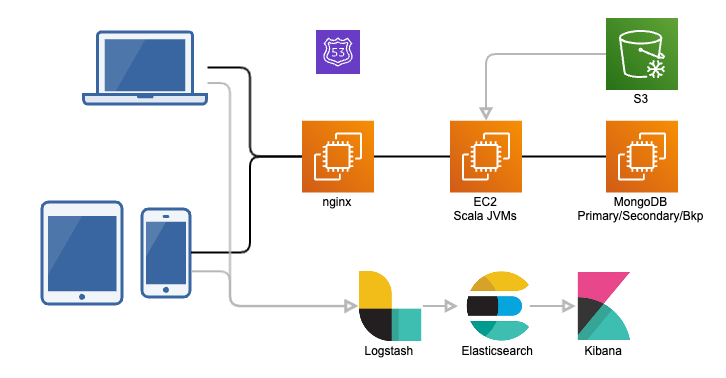
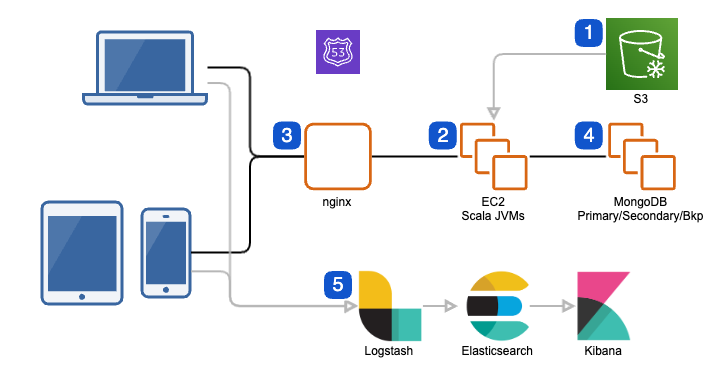
Outline update
Updated format to be the same as AWS Reference Architecture Diagrams

diff --git a/README.md b/README.md
@@ -1,22 +1,15 @@
 # Game Microservice Architecture and Pipeline
-The following architecture and pipelines supported an audience of 200K students playing cross-platform mobile games that reported student concept mastery and behavioral data to their teachers and admins on a responsive site.
+The following architecture and pipelines for cross-platform mobile games consisted of components designed to provide a seamless and secure gaming experience. They supported an audience of 200K students playing cross-platform mobile games that reported student concept mastery and behavioral data to their teachers and admins on a responsive site.
 
 ## Architecture
 
 ![alt text](startup_game_architecture.png "Startup Game Architecture")
 
-*Benefits:*
-1. Using CloudFormation for deployments provided a simple and efficient way to create and manage all of the necessary AWS resources, allowing for quick releases and scaling with demand, ensuring that the gaming experience remained smooth and uninterrupted for all users.
-2. Scala is a powerful programming language that allowed for efficient and scalable data processing, making it an ideal choice for the backend of a gaming application with heavy data reporting needs. Its functional programming features make it easy to write highly modular, reusable, and well-tested code for asynchronous data processing, leading to faster dev times and reduced maintenance/testing costs.
-2. MongoDB is a highly scalable, flexible NoSQL DB, making it an excellent choice for gaming applications that require fast and reliable data access. Its ability to handle large amounts of unstructured data allows for the storage and retrieval of complex data that changed regularly due to the evolutions of the games to improve learning and fun.
-3. WebGL artifacts embedded in an AngularJS site and native iOS apps provided responsive and interactive UIs that were accessed from the devices and platforms most important to our users.
-4. REST APIs were secured by API keys and TLS encryption ensuring that all data transmitted was kept private and secure, protecting sensitive user data from potential security breaches.
-5. The use of Nginx as a reverse proxy helped to distribute the workload evenly across the EC2 instances, improving the overall performance and reliability of the system.
-
-*Overview:*
-This architecture for cross-platform mobile games consisted of components designed to provide a seamless and secure gaming experience. The system was deployed using AWS CloudFormation, which provided a simple and efficient way to create and manage all of the necessary AWS resources, allowing for easy scaling as demand grew and ensuring that the gaming experience remained smooth and uninterrupted for users. The backend was built using Scala, which allowed for efficient and robust data processing while providing real-time dashboards to teachers and admins. The backend was hosted on EC2 instances and connected to a MongoDB database that stored all of the game-related data. MongoDB is a highly scalable and flexible NoSQL DB, an ideal choice for gaming applications that require fast, flexible, and reliable data access. To improve the performance and reliability of the system, an Nginx server was used as a reverse proxy to route incoming requests to the appropriate EC2 instances. 
-
-For the frontend of the system, WebGL artifacts were embedded within an AngularJS site, providing a responsive and interactive UI. In addition to the web-based frontend, native iOS apps were also available for classrooms with iPads. All of the communication between the frontend and backend was done through REST APIs secured using API keys and TLS encryption. This ensured that all data transmitted between the frontend and backend was kept private and secure.
+1.	Using CloudFormation for deployments provided a simple and efficient way to create and manage all of the necessary AWS resources, allowing for quick releases and scaling with demand, ensuring that the gaming experience remained smooth and uninterrupted for all users. Static AngularJS web files and WebGL game artifacts along with server code binaries were stored in S3. AngularJS and WebGL provided responsive and high-performing, interactive UIs for teacher dashboards and student games.
+2.	EC2 instances ran JVMs for a Scala application. Scala is a powerful language with functional programming features that make it easy to write highly modular, reusable, and well-tested code for asynchronous data processing, leading to faster dev times and reduced maintenance/testing costs, an ideal choice for the backend of a gaming application with heavy data reporting needs.
+3.	The use of Nginx as a reverse proxy helped to distribute the workload evenly across the EC2 instances, improving the overall performance and reliability of the system. REST APIs were secured by API keys and TLS encryption ensuring that all data transmitted was kept private and secure, protecting sensitive user data.
+4.	MongoDB is a highly scalable, flexible NoSQL DB, making it an excellent choice for gaming applications that require fast and reliable data access. Its ability to handle large amounts of unstructured data allows for the storage and retrieval of complex data that changed regularly due to the evolutions of the games to improve learning and fun. Leveraged a JSON coast-to-coast backend design to maximize flexibility for game devs. 
+5.	The ELK stack was cost-effective while providing visibility across the system.
 
 ## SDLC Pipeline
 
